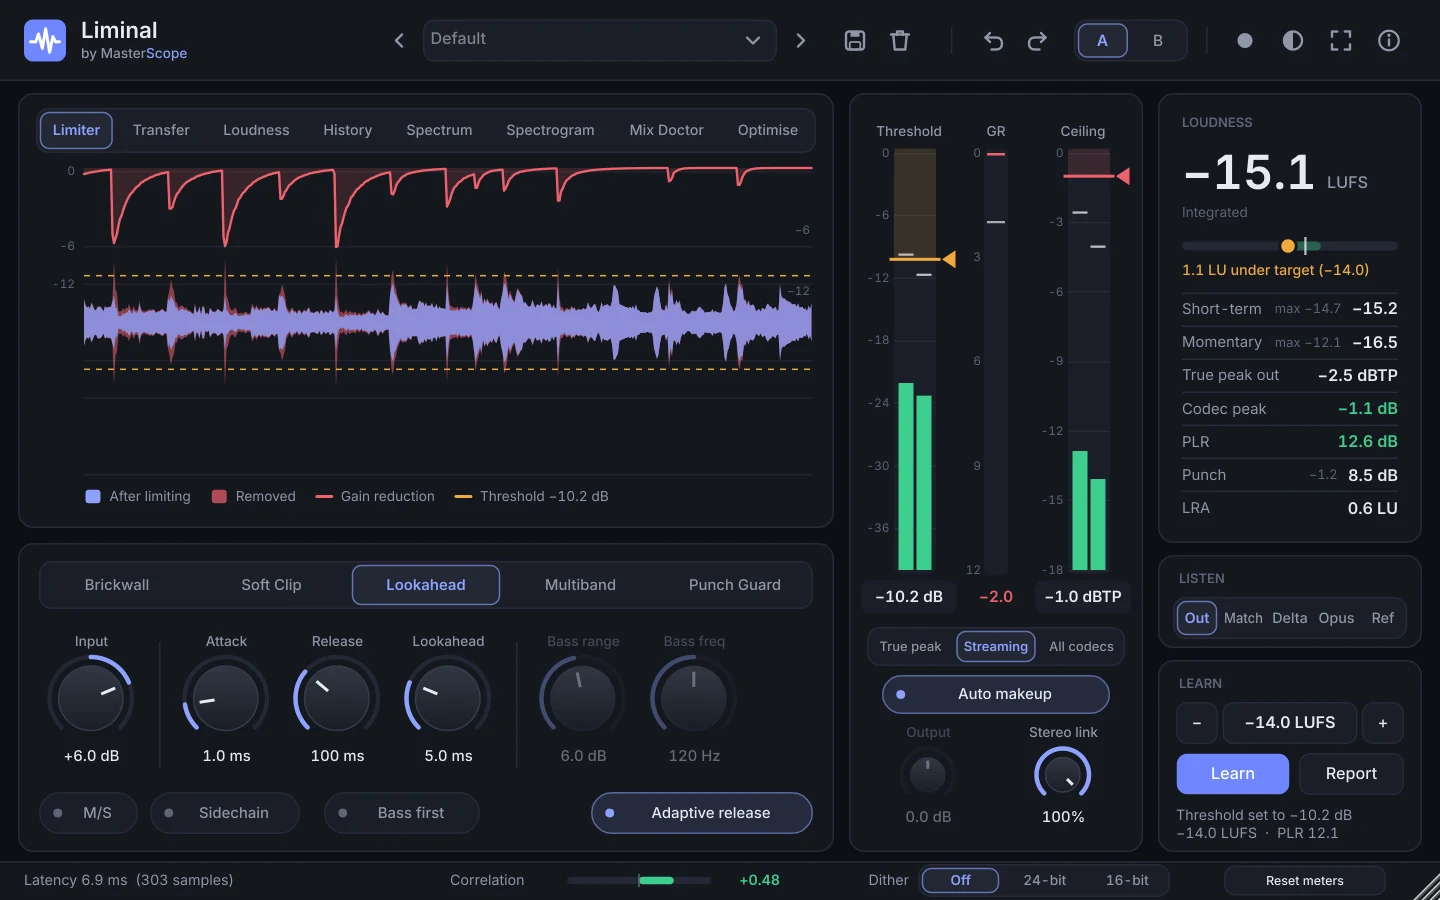
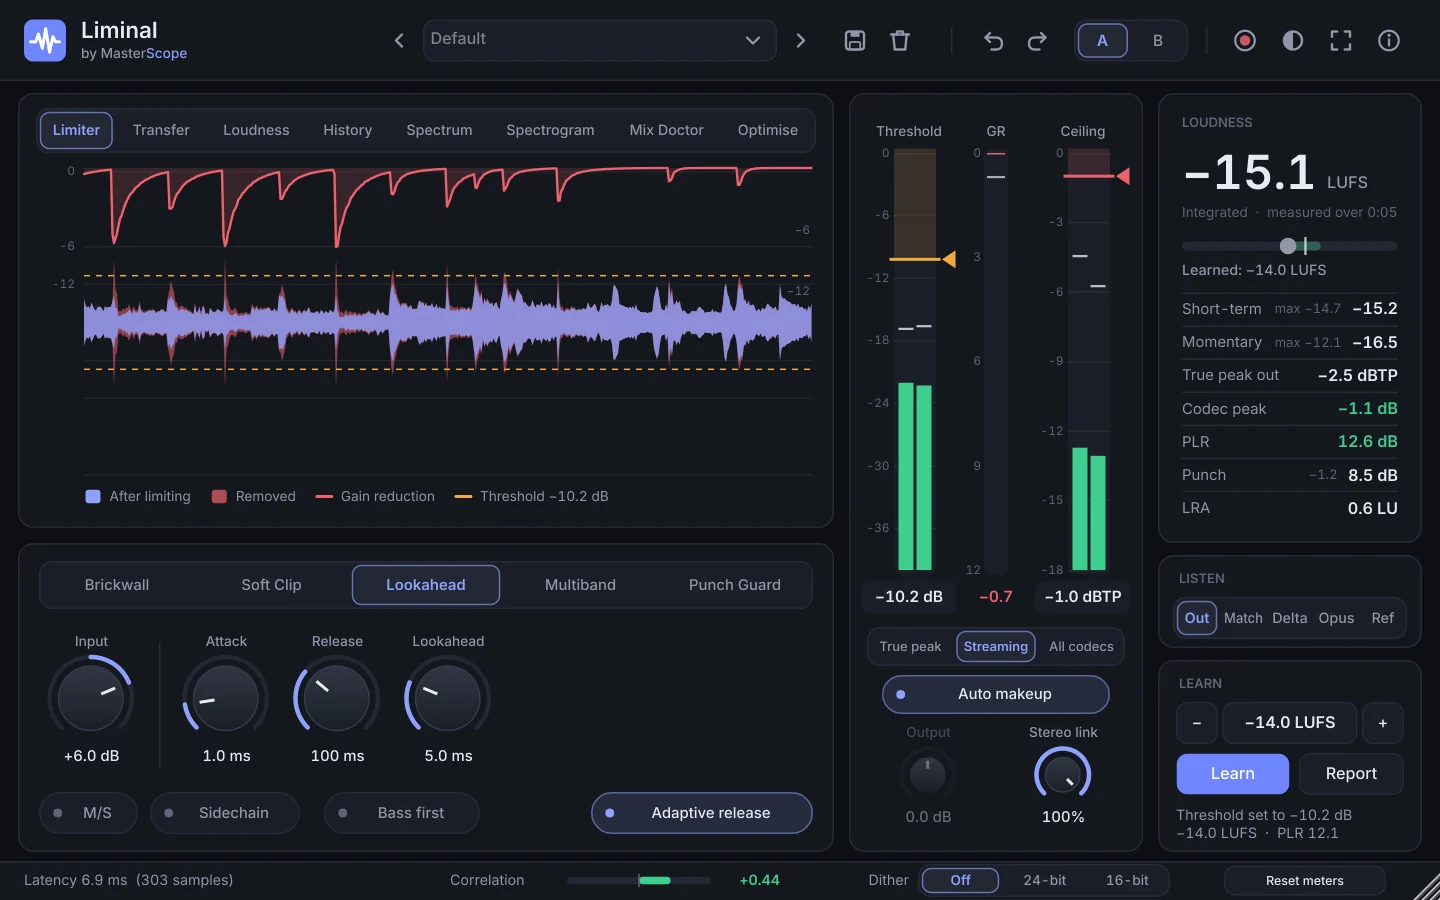
Liminal screenshots from the updated UI; guide notes for Get started, Learn progress and the bass controls
Claude-Session: https://claude.ai/code/session_01QMxkR41z4R4Uaybvt62sQa

diff --git a/liminal/guide/index.html b/liminal/guide/index.html
@@ -108,7 +108,7 @@
         <section class="chapter guide">
           <h2 id="window">3. The window</h2>
           <ul>
-            <li><b>Top bar:</b> presets (arrows step through them), Save, Delete, Undo, Redo, A/B, Record session (●), dark or light theme, full screen and About (ⓘ).</li>
+            <li><b>Top bar:</b> presets (arrows step through them), Save, Delete, Undo, Redo, A/B, Record session (the red dot), dark or light theme, full screen and About (ⓘ), which has links to this guide and What's new.</li>
             <li><b>Display</b> (top left): eight views, chosen with the tabs. See <a href="#views">Views</a>.</li>
             <li><b>Controls</b> (bottom left): the limiting mode and the knobs for that mode, plus M/S, Sidechain, Bass first and Adaptive release.</li>
             <li><b>Faders</b> (middle): Threshold, the GR meter and Ceiling, then the ceiling mode, Auto makeup, Output and Stereo link.</li>
@@ -120,7 +120,7 @@
         </section>
         <section class="chapter guide">
           <h2 id="learn">4. Learn and targets</h2>
-          <p>Learn is how Liminal sets itself. Press <b>Learn</b>, play the song, press <b>Stop</b>. While you play, it listens; when you stop, it renders what it heard through hidden copies of itself at different thresholds, picks the one that hits your target at your ceiling, and checks the result through real streaming encoders. Then it restarts the loudness readings so they reflect the new setting. <b>Undo</b> puts the old threshold back.</p>
+          <p>Learn is how Liminal sets itself (the first time you open Liminal, the display shows these steps). Press <b>Learn</b>, play the song, press <b>Stop</b>. While you play, it listens; when you stop, it renders what it heard through hidden copies of itself at different thresholds, picks the one that hits your target at your ceiling, and checks the result through real streaming encoders. Then it restarts the loudness readings so they reflect the new setting. <b>Undo</b> puts the old threshold back.</p>
           <h3>Two kinds of target</h3>
           <div class="table-wrap"><table class="data">
             <thead><tr><th>Target</th><th>What Learn aims for</th><th>Use it when</th></tr></thead>
@@ -129,6 +129,7 @@
               <tr><td>Density (PLR)</td><td>A peak-to-loudness ratio: how dense the master is. 9 to 11 is punchy and competitive; 12 and up is open; under 8 sounds squashed.</td><td>Streaming. The services turn every song to the same loudness, so density is what listeners actually hear.</td></tr>
             </tbody>
           </table></div>
+          <p>While Learn calculates, a bar under the button shows its progress. Afterwards the Loudness panel shows what Learn measured (<i>Learned: −14.0 LUFS</i>) until enough of the song has played again for its own readings to settle; the line under the big number says how long it has been measuring.</p>
           <p>Use the − and + buttons for small steps, or click the value for the full list. Learn's own report (the <b>Report</b> button) is the same session file Record makes, rendered from what Learn heard, so one listen gives you the setting and the report. More on why density matters in <a href="/learn/density/">Learn: density</a>.</p>
           <figure class="shot"><img src="/img/liminal-capturing.webp" alt="Liminal while Learn is listening to the song" loading="lazy" width="1440" height="900"><figcaption>While Learn is listening. Play the song through, then press Stop.</figcaption></figure>
 
@@ -180,7 +181,7 @@
               <tr><td>Drive (Soft Clip)</td><td>How hard the signal is pushed into the clipper.</td><td>To taste</td></tr>
               <tr><td>Crossover (Multiband)</td><td>Where the lows split from the highs.</td><td class="num">about 150 Hz</td></tr>
               <tr><td>Bass first</td><td>When a peak comes mostly from the low end, only the low band is turned down, so hats, vocals and snare don't duck with every kick. Lookahead and Brickwall.</td><td>On for kick- and 808-led music</td></tr>
-              <tr><td>Bass range / Bass freq</td><td>The most the low band may be turned down on its own, and where the low band ends.</td><td class="num">6 dB · 100 to 150 Hz</td></tr>
+              <tr><td>Bass range / Bass freq</td><td>The most the low band may be turned down on its own, and where the low band ends. They appear once Bass first is on.</td><td class="num">6 dB · 100 to 150 Hz</td></tr>
               <tr><td>M/S</td><td>Limits the centre and the sides separately, so wide parts don't pull the centre down.</td><td>Off</td></tr>
               <tr><td>Sidechain</td><td>Lets another track routed to Liminal's sidechain input decide when to limit. Brickwall and Lookahead.</td><td>Off</td></tr>
               <tr><td>Auto makeup</td><td>Turns the output up so the loudest peaks sit at the ceiling. Turn off to set the level with Output.</td><td>On</td></tr>
